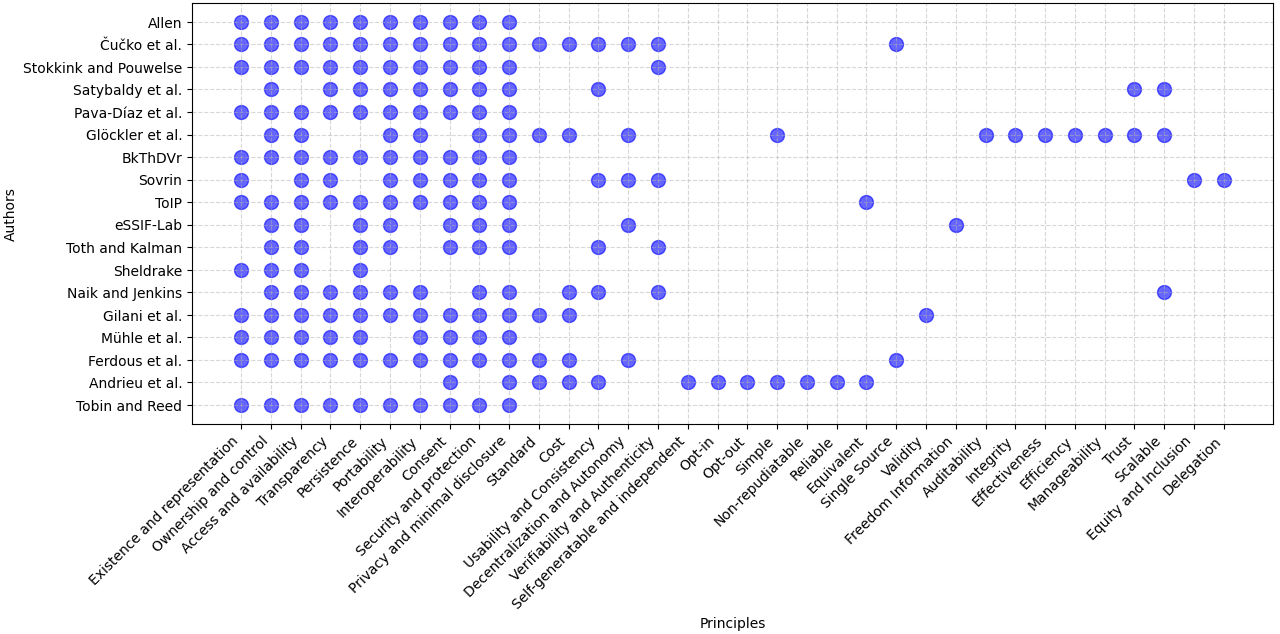
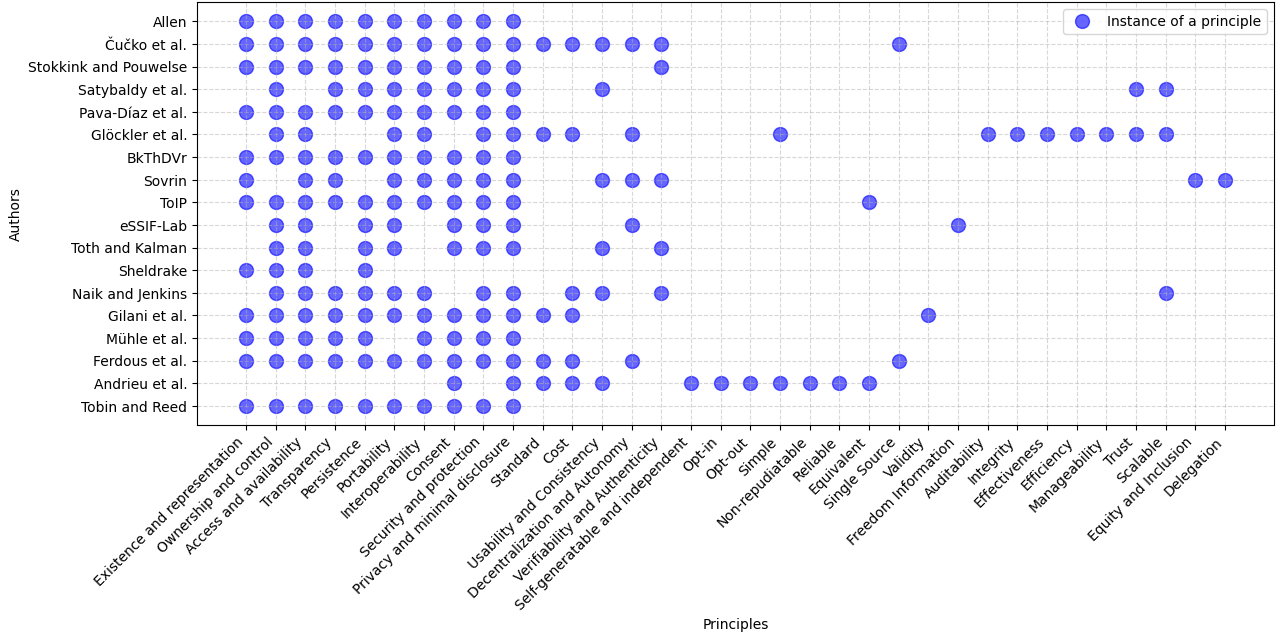
.

diff --git a/definition/program/recording_of_principles/BubbleChart.py b/definition/program/recording_of_principles/BubbleChart.py
@@ -1,5 +1,6 @@
 import matplotlib.pyplot as plt
 import numpy as np
+import matplotlib.lines as mlines
 
 autori = ["Tobin and Reed", "Andrieu et al.", "Ferdous et al.", "Mühle et al.", "Gilani et al.", "Naik and Jenkins", "Sheldrake", "Toth and Kalman", "eSSIF-Lab", "ToIP", "Sovrin", "BkThDVr", "Glöckler et al.", "Pava-Díaz et al.", "Satybaldy et al.", "Stokkink and Pouwelse", "Čučko et al.", "Allen"]
 
@@ -37,6 +38,9 @@ ax.set_xticks(range(len(principi)))
 ax.set_xticklabels(principi, rotation=45, ha="right")
 ax.set_yticks(range(len(autori)))
 ax.set_yticklabels(autori)
+
+legend_marker = mlines.Line2D([], [], color='blue', marker='o', linestyle='None', markersize=10, alpha=0.6, label="Instance of a principle")
+plt.legend(handles=[legend_marker], loc="upper right", title="")
 
 ax.set_title("")
 plt.xlabel("Principles")
